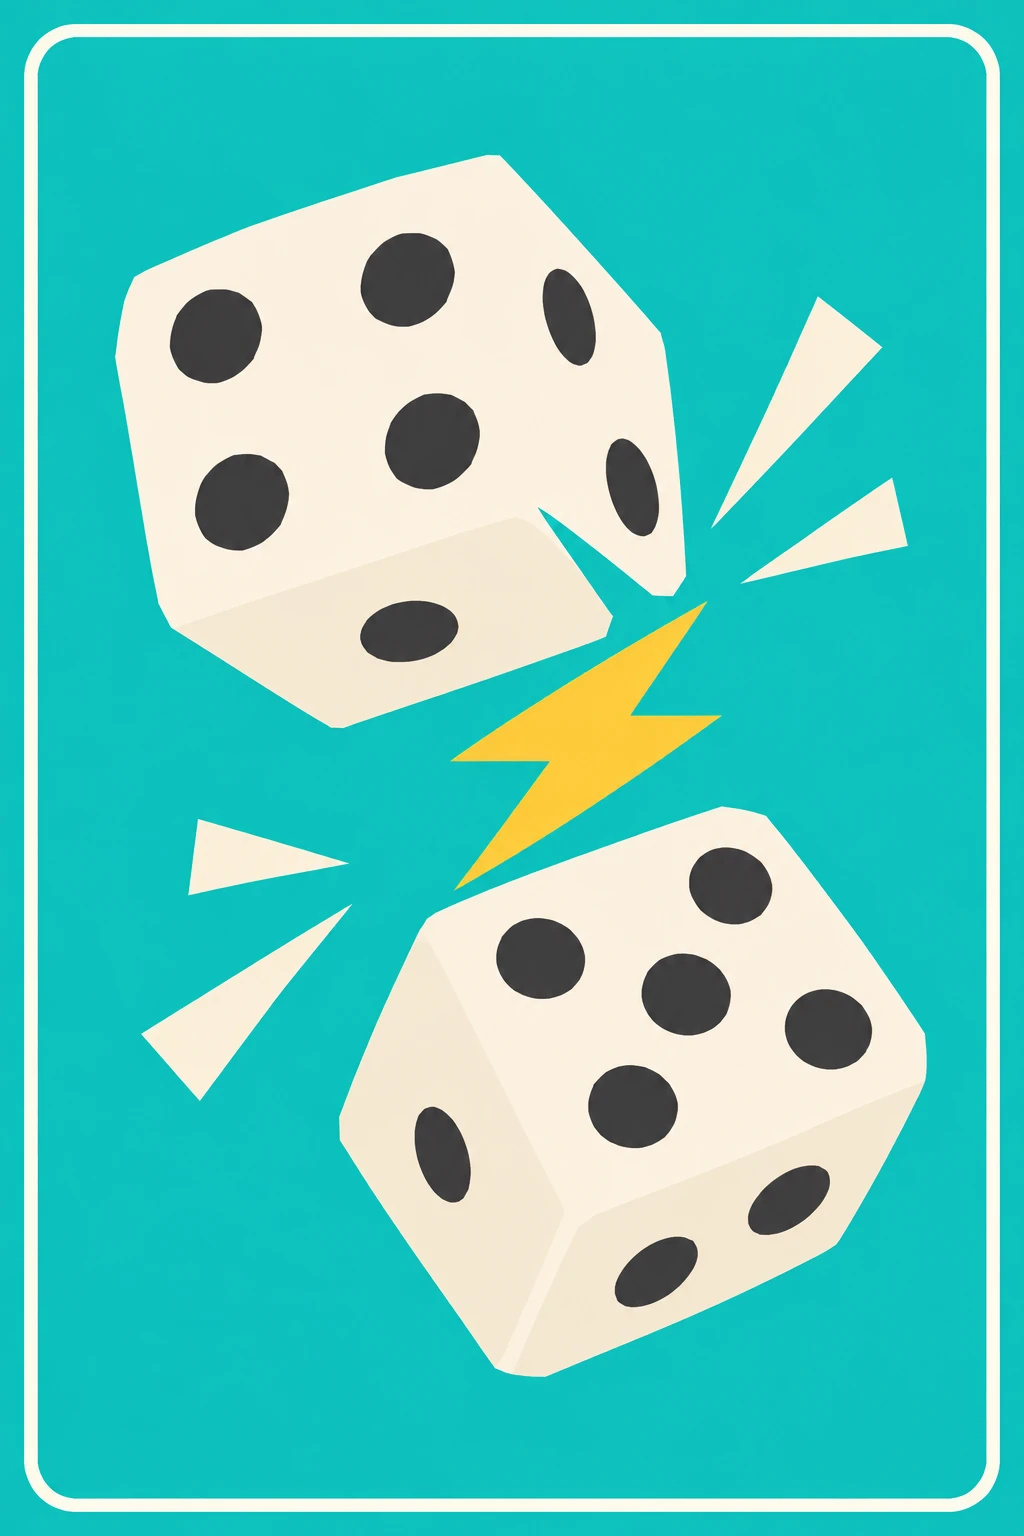
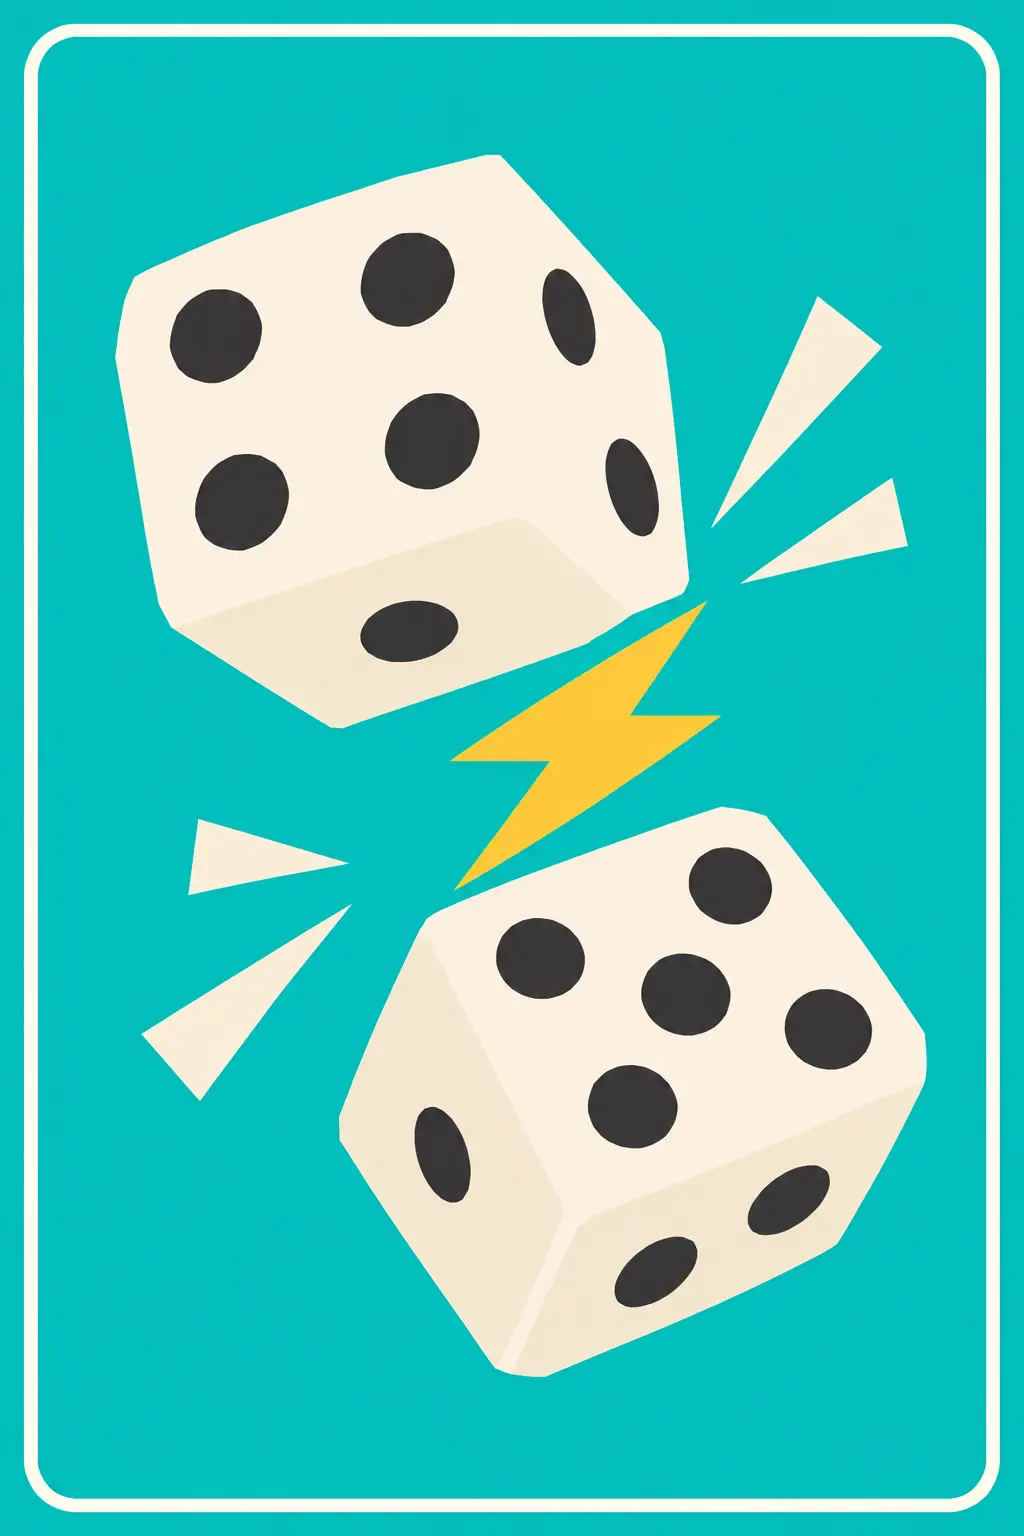
Restore beveled home cards and repair the dice card back

Changed region(s): [[0.5312, 0.3125, 0.6875, 0.4062]]

diff --git a/equilibre.css b/equilibre.css
@@ -22,6 +22,8 @@ html,body{height:var(--viewport-height);min-height:var(--viewport-height)}
 #modeMenu .hero-burst,#modeMenu .hero-art::before,#modeMenu .hero-art::after{display:none}
 #modeMenu .menu-hand{--card-w:calc(31 * var(--home-u));width:100%;height:100%;min-height:calc(44 * var(--home-u));position:relative}
 #modeMenu .menu-hand .card{position:absolute;left:50%;top:50%;width:var(--card-w);height:calc(var(--card-w)*1.42);opacity:1;animation:none!important;will-change:auto;filter:drop-shadow(0 4px 3px #0003) drop-shadow(0 12px 10px #0003)}
+/* Home cards keep their bevel from first paint, without relying on a bitmap mask. */
+#modeMenu .menu-hand .card>.card-surface{-webkit-mask:none;mask:none;clip-path:polygon(10% 0,90% 0,100% 6.67%,100% 93.33%,90% 100%,10% 100%,0 93.33%,0 6.67%)}
 #modeMenu .menu-hand .card:nth-child(1){transform:translate(-139%,-44%) rotate(-14deg);z-index:1}
 #modeMenu .menu-hand .card:nth-child(2){transform:translate(-50%,-53%) rotate(-2deg);z-index:3}
 #modeMenu .menu-hand .card:nth-child(3){--card-w:calc(31 * var(--home-u));transform:translate(34%,-44%) rotate(13deg);z-index:2}
